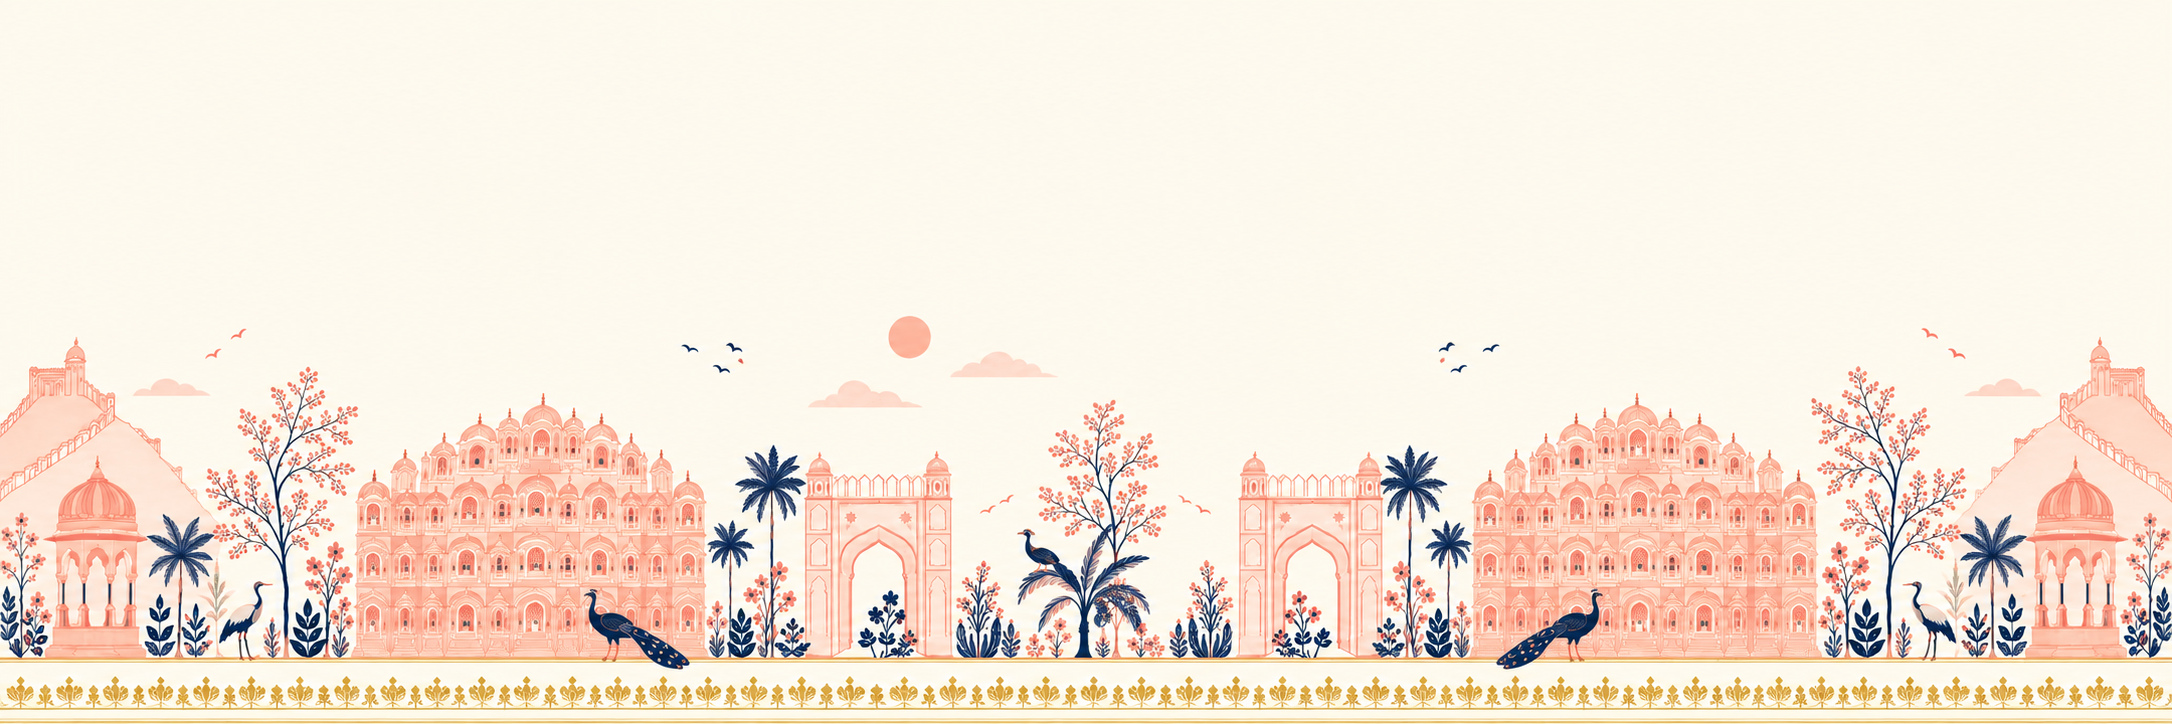
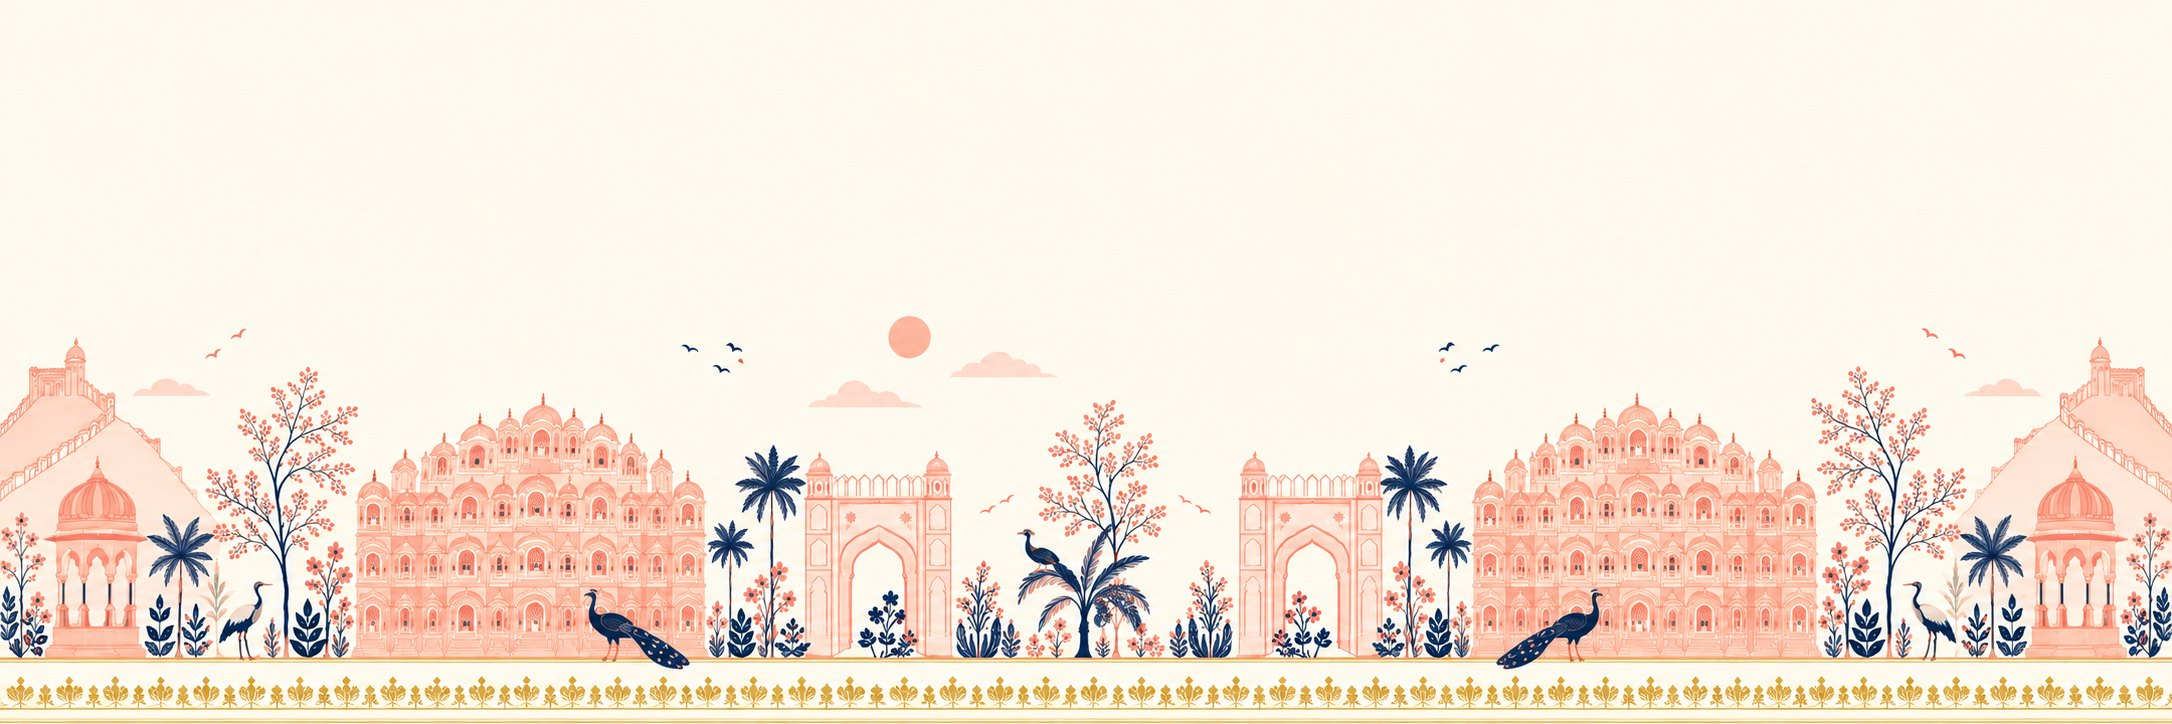
feat: shift footer text/links upward into open ivory sky and showcase unobstructed bottom heritage fresco, optimized via WebP

diff --git a/components/Footer.tsx b/components/Footer.tsx
@@ -33,29 +33,30 @@ export default function Footer() {
       className="relative mt-24 md:mt-32 border-t border-[#DEE2E6] dark:border-white/10 overflow-hidden text-foreground bg-[#FDF9EE] dark:bg-[#12100E]"
       data-testid="site-footer"
     >
-      {/* Mobile Layout Heritage Illustration (Portrait: 1024x1536 Lossless Ultra-HD) */}
+      {/* Mobile Layout Heritage Illustration (Portrait: 1024x1536 Optimized WebP, 120KB) */}
       <div
         className="block md:hidden absolute inset-0 z-0 bg-cover bg-bottom bg-no-repeat opacity-100 dark:opacity-30 pointer-events-none"
         style={{
-          backgroundImage: "url('/images/footer-heritage-bg-mobile.png')",
+          backgroundImage: "url('/images/footer-heritage-bg-mobile.webp')",
         }}
       />
 
-      {/* Desktop Layout Heritage Illustration (Panoramic Landscape: 2172x724 Lossless Ultra-HD) */}
+      {/* Desktop Layout Heritage Illustration (Panoramic Landscape: 2172x724 Optimized WebP, 205KB) */}
       <div
         className="hidden md:block absolute inset-0 z-0 bg-cover bg-bottom bg-no-repeat opacity-100 dark:opacity-30 pointer-events-none"
         style={{
-          backgroundImage: "url('/images/footer-heritage-bg-desktop.png')",
+          backgroundImage: "url('/images/footer-heritage-bg-desktop.webp')",
         }}
       />
 
       {/* Dark mode ambient overlay only */}
       <div className="hidden dark:block absolute inset-0 z-0 bg-black/60 pointer-events-none" />
 
-      {/* Main Footer Container */}
-      <div className="relative z-10 container-x py-16 md:py-20 grid grid-cols-1 md:grid-cols-12 gap-10 md:gap-12">
-        {/* Column 1: Brand Atelier Manifesto & Coordinates (md:col-span-4) */}
-        <div className="md:col-span-4">
+      {/* Upper Content Section (Shifted Upwards into the Clear Ivory Sky) */}
+      <div className="relative z-10 container-x pt-12 md:pt-16 pb-6">
+        <div className="grid grid-cols-1 md:grid-cols-12 gap-10 md:gap-12">
+          {/* Column 1: Brand Atelier Manifesto & Coordinates (md:col-span-4) */}
+          <div className="md:col-span-4">
           {/* Official Wastram Crest & Gold Thread Logo */}
           <Link
             href="/"
@@ -238,9 +239,8 @@ export default function Footer() {
         </div>
       </div>
 
-      {/* Bottom Bar */}
-      <div className="relative z-10 border-t border-black/10 dark:border-white/10 py-6">
-        <div className="container-x flex flex-col sm:flex-row items-center justify-between gap-3 text-[11px] text-foreground/60 font-body">
+        {/* Minimal Copyright Line sitting cleanly right beneath the navigation columns */}
+        <div className="mt-8 pt-6 border-t border-[#D4AF37]/25 flex flex-col sm:flex-row items-center justify-between gap-3 text-[11px] text-foreground/60 font-body">
           <div>
             &copy; {new Date().getFullYear()} Wastram Jaipur. All rights reserved.
           </div>
@@ -253,6 +253,12 @@ export default function Footer() {
           </div>
         </div>
       </div>
+
+      {/* Dedicated Heritage Illustration Showcase Zone - ONLY the Jaipur palaces, arches, peacocks & gold border appear here */}
+      <div
+        className="relative z-0 h-44 sm:h-56 md:h-72 lg:h-84 xl:h-96 w-full pointer-events-none"
+        aria-hidden="true"
+      />
     </footer>
   );
 }
